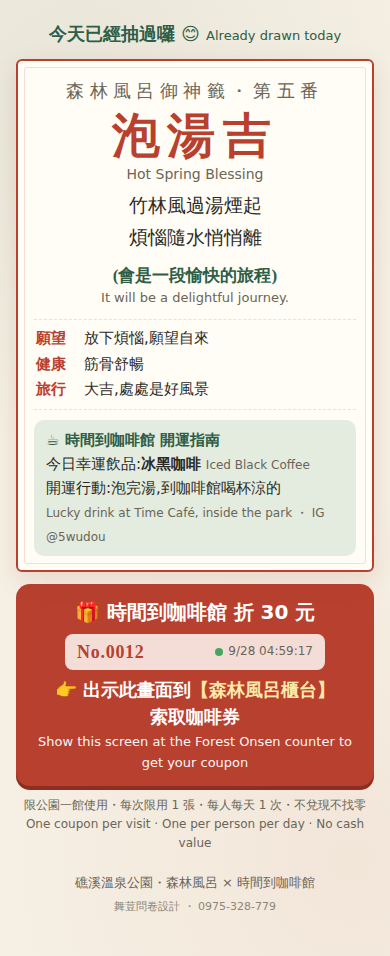
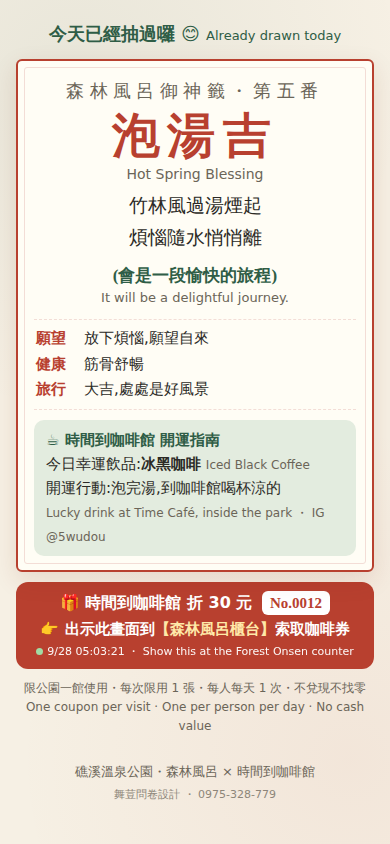
御神籤:紅色領券區壓縮為三行
Claude-Session: https://claude.ai/code/session_01F6yyhJXwLMGLQPqwSGyNKN

diff --git a/行銷/森林風呂御神籤/Index.html b/行銷/森林風呂御神籤/Index.html
@@ -136,14 +136,14 @@
   .cafe { background: var(--forest-2); border-radius: 10px; padding: 8px 12px; text-align: left; font-size: 15px; line-height: 1.6; }
   .cafe .h { font-weight: 700; color: var(--forest); }
   .cafe .note2 { font-size: 12px; color: var(--ink-2); }
-  .claim { margin-top: 12px; background: var(--torii); color: #fff; border-radius: 14px; padding: 12px; text-align: center; box-shadow: 0 4px 0 #8c2e21; }
-  .claim .big { font-size: 20px; font-weight: 900; }
-  .claim .big2 { font-size: 18px; font-weight: 700; line-height: 1.5; }
-  .claim .big2 b { color: #ffe9a8; }
-  .claim .coupon { display: flex; align-items: center; justify-content: space-between; margin: 6px auto; padding: 4px 12px; color: var(--ink); max-width: 260px; border-radius: 8px; }
-  .claim .coupon .no { font-size: 18px; letter-spacing: .04em; }
-  .claim .live { margin: 0; font-size: 12px; gap: 5px; }
-  .claim .live .dot { width: 8px; height: 8px; }
+  .claim { margin-top: 10px; background: var(--torii); color: #fff; border-radius: 12px; padding: 8px 10px; text-align: center; }
+  .claim .c1 { font-size: 16px; font-weight: 900; }
+  .claim .c1 .no { display: inline-block; background: #fff; color: var(--torii); font-family: "Noto Serif TC", serif; font-size: 15px; border-radius: 6px; padding: 0 8px; margin-left: 4px; }
+  .claim .c2 { font-size: 15px; font-weight: 700; margin-top: 2px; }
+  .claim .c2 b { color: #ffe9a8; }
+  .claim .c3 { font-size: 11px; opacity: .95; margin-top: 2px; }
+  .claim .live { display: inline-flex; margin: 0; font-size: 11px; color: #fff; gap: 4px; }
+  .claim .live .dot { width: 7px; height: 7px; background: #9ff0b4; }
   .show { margin-top: 16px; background: var(--forest); color: #fff; border-radius: 12px; padding: 12px; text-align: center; font-weight: 700; }
   .rules { font-size: 12px; color: var(--ink-2); margin-top: 10px; text-align: center; }
   .again { text-align: center; color: var(--forest); font-weight: 700; margin-bottom: 10px; }
@@ -244,10 +244,9 @@
       <div class="cafe" id="cafe"></div>
     </div>
     <div class="claim">
-      <div class="big">🎁 時間到咖啡館 折 30 元</div>
-      <div class="coupon"><span class="no" id="cno"></span><span class="live"><span class="dot"></span><span id="clock"></span></span></div>
-      <div class="big2">👉 出示此畫面到<b>【森林風呂櫃台】</b><br>索取咖啡券</div>
-      <div style="font-size:13px;opacity:.95;margin-top:2px">Show this screen at the Forest Onsen counter to get your coupon</div>
+      <div class="c1">🎁 時間到咖啡館 折 30 元 <span class="no" id="cno"></span></div>
+      <div class="c2">👉 出示此畫面到<b>【森林風呂櫃台】</b>索取咖啡券</div>
+      <div class="c3"><span class="live"><span class="dot"></span><span id="clock"></span></span> ・ Show this at the Forest Onsen counter</div>
     </div>
     <div class="rules">限公園一館使用・每次限用 1 張・每人每天 1 次・不兌現不找零<br>One coupon per visit · One per person per day · No cash value</div>
   </section>
